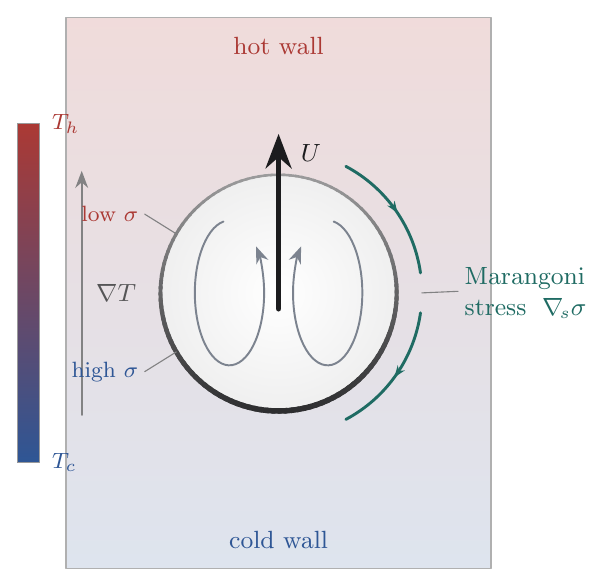
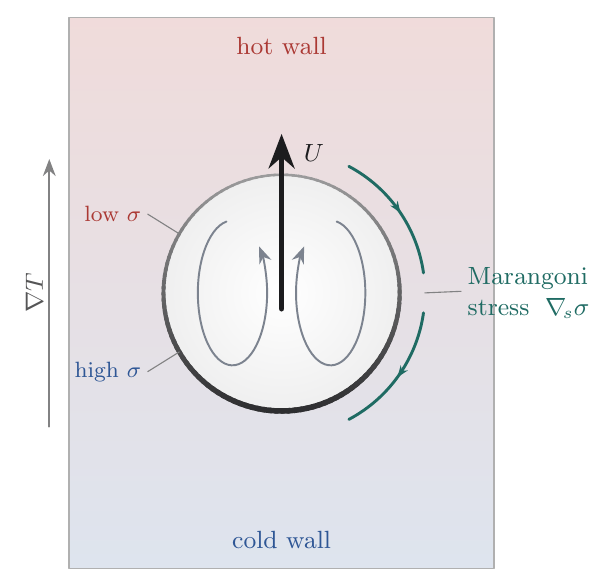
thermocapillary: drop colorbar from mechanism schematic
Remove the temperature colorbar legend; the background gradient, wall labels,
and grad-T arrow already convey the imposed field. Move grad-T to the left
margin so the sigma callouts read cleanly. Regenerate the companion PNG.

diff --git a/examples/2D_thermocapillary_migration/figures/mechanism_schematic.tex b/examples/2D_thermocapillary_migration/figures/mechanism_schematic.tex
@@ -40,13 +40,9 @@
   \node[hotc]  at (0, 3.14) {hot wall};
   \node[coldc] at (0,-3.14) {cold wall};
 
-  %--- temperature legend + gradient direction (left margin) -----------------------------
-  \shade[bottom color=coldc, top color=hotc] (-3.32,-2.15) rectangle (-3.04,2.15);
-  \draw[inkc!45, line width=0.4pt] (-3.32,-2.15) rectangle (-3.04,2.15);
-  \node[hotc,  anchor=west, font=\footnotesize] at (-3.0, 2.15) {$T_h$};
-  \node[coldc, anchor=west, font=\footnotesize] at (-3.0,-2.15) {$T_c$};
-  \draw[->, inkc!55, line width=0.7pt] (-2.5,-1.55) -- (-2.5,1.55);
-  \node[inkc!75, anchor=west] at (-2.44,0) {$\nabla T$};
+  %--- imposed-gradient direction (left margin) ------------------------------------------
+  \draw[->, inkc!55, line width=0.7pt] (-2.95,-1.7) -- (-2.95,1.7);
+  \node[inkc!75, rotate=90] at (-3.14,0) {$\nabla T$};
 
   %--- droplet: lightly shaded interior + interface graded by local sigma ----------------
   \shade[inner color=white, outer color=inkc!7] (0,0) circle (\R);
